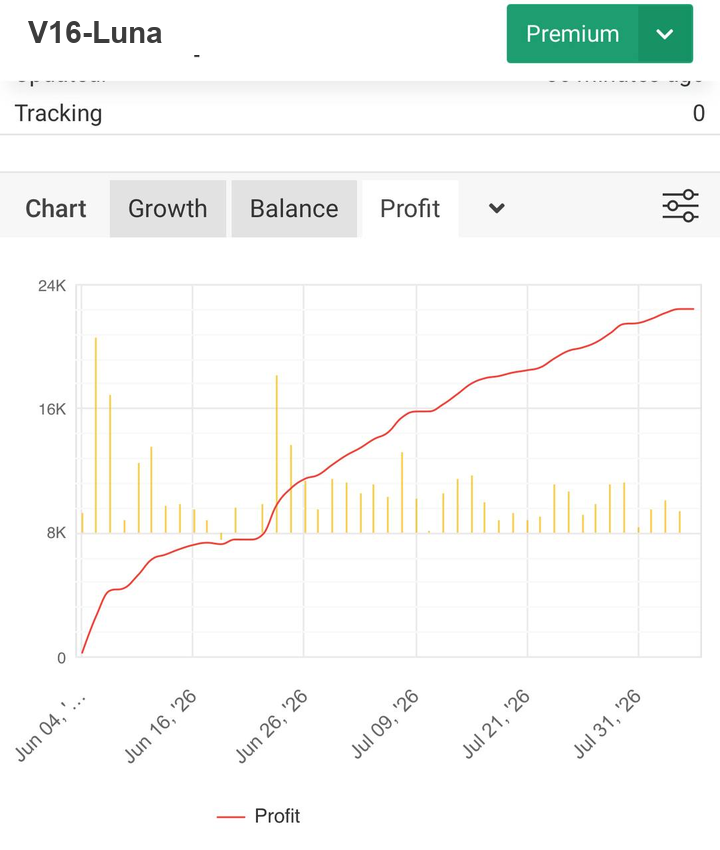
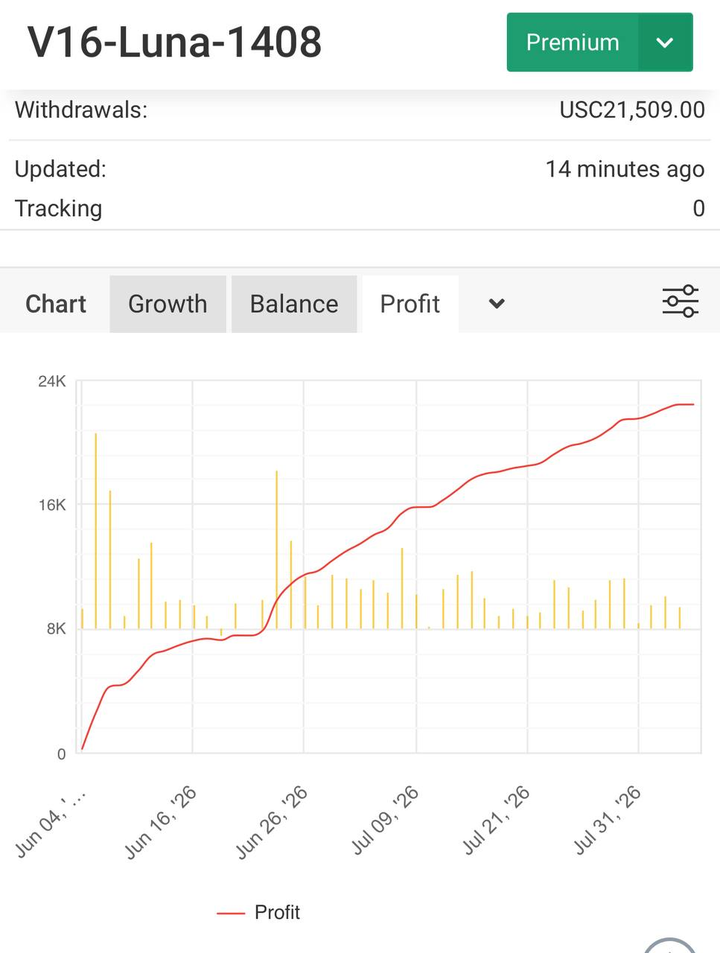
feat: new profit dashboard + winners/losers chart, normal-risk copy update
- replace profit chart with the new V16-Luna-1408 dashboard screenshot
  (Withdrawals USC21,509.00, Updated 14 min ago, Profit to 24K)
- add Winners vs Losers hourly chart with caption (peak 135 wins at 18:00)
- normal-risk mode: hide the chart grid (low-risk stats only), updated
  copy — higher start lot, reduced delay, Dynamic mode (not multiplier),
  standard grid; stats note now says normal mode grows with start lot
- footer: add "Develop by LostSky" credit

🤖 Generated with Codebuff

diff --git a/index.html b/index.html
@@ -179,25 +179,25 @@
     <p class="sec-lede" data-risk="low"><b>นี่คือผลกำไรจริงของ EA โดยตั้งค่าในระดับความเสี่ยงต่ำสุด</b> —
     เน้นอยู่รอดก่อนกำไร: ล็อตเล็ก ระยะห่างกว้าง เปิดน้อยไม้ ใช้โหมด Dynamic + ดีเลย์ 30 วิ และเปิดกรองข่าวเต็มรูปแบบ</p>
     <p class="sec-lede" data-risk="normal" hidden><b>นี่คือผลกำไรจริงของ EA โดยตั้งค่าในระดับความเสี่ยงปกติ</b> —
-    ล็อตเพิ่มทบเป็นขั้น (คูณ ×1.5) ระยะห่างมาตรฐาน เปิดไม้ถี่ขึ้น กำไรโตเร็วขึ้น แต่รับความเสี่ยงมากขึ้นตาม</p>
+    ล็อตเริ่มต้นที่มากขึ้น ลดดีเลย์ โหมด Dynamic ระยะห่างมาตรฐาน เปิดไม้ถี่ขึ้น กำไรโตเร็วขึ้น แต่รับความเสี่ยงมากขึ้น</p>
 
-    <div class="profit-grid">
+    <div class="profit-grid" data-risk="low">
       <figure class="profit-fig">
         <div class="profit-card">
           <div class="profit-head">
-            <span class="p-name">V16-Luna</span>
+            <span class="p-name">V16-Luna-1408</span>
             <span class="badge prem">Premium</span>
           </div>
           <div class="profit-body">
-            <span class="pf-label">Tracking</span><span class="pf-val">0</span>
+            <span class="pf-label">Withdrawals</span><span class="pf-val">USC21,509.00</span>
           </div>
           <picture>
             <source srcset="img/ea-profit-chart.webp" type="image/webp">
-            <img src="img/ea-profit-chart.png" alt="กราฟกำไร EA V16-Luna — Profit สูงขึ้นจาก 0 ถึงเกือบ 24K" width="720" height="850" loading="lazy" decoding="async">
+            <img src="img/ea-profit-chart.png" alt="แดชบอร์ด V16-Luna-1408 — Withdrawals USC21,509.00, Updated 14 นาทีที่แล้ว, กราฟ Profit สูงขึ้นถึง 24K" width="720" height="953" loading="lazy" decoding="async">
           </picture>
           <p class="profit-legend"><span class="lg-line"></span>Profit</p>
         </div>
-        <figcaption class="caption">กราฟกำไรสะสม (Profit / Growth / Balance) — เส้นแดงคือกำไรสะสม สีทองคือผลต่อวัน</figcaption>
+        <figcaption class="caption">แดชบอร์ด V16-Luna-1408 — ถอนออกแล้ว USC21,509.00 · อัปเดตล่าสุด 14 นาทีที่แล้ว · กราฟ Profit (เส้นแดง) สูงขึ้นถึง 24K</figcaption>
       </figure>
 
       <figure class="profit-fig">
@@ -211,6 +211,19 @@
           </picture>
         </div>
         <figcaption class="caption">คะแนนรวม (Radar) + สถิติ: กำไรสุทธิ +10,645 USC · Win Rate 68.4% · Max Drawdown 0.22% · อันดับ Top 72%</figcaption>
+      </figure>
+
+      <figure class="profit-fig profit-fig-wide">
+        <div class="profit-card">
+          <div class="profit-head">
+            <span class="p-name">Winners vs Losers</span>
+          </div>
+          <picture>
+            <source srcset="img/ea-winners-losers.webp" type="image/webp">
+            <img src="img/ea-winners-losers.png" alt="กราฟ Winners vs Losers รายชั่วโมง — แท่งเขียวคือจำนวนไม้ที่ชนะ แท่งม่วงคือจำนวนไม้ที่แพ้ ในแต่ละชั่วโมงเทรด" width="720" height="690" loading="lazy" decoding="async">
+          </picture>
+        </div>
+        <figcaption class="caption">Winners vs Losers รายชั่วโมง — แท่งเขียว (Winners) คือจำนวนไม้ที่ปิดกำไร แท่งม่วง (Losers) คือไม้ที่ปิดขาดทุน — ชั่วโมง 18.00 มีกำไรมากสุด 135 ไม้</figcaption>
       </figure>
     </div>
 
@@ -228,11 +241,11 @@
     <div class="profit-explain" data-risk="normal" hidden>
       <h3>ตั้งค่าความเสี่ยงปกติ หมายถึงอะไร?</h3>
       <ul>
-        <li><b>ล็อตเพิ่มทบ</b> — โหมดคูณ ×1.5 ทุกไม้ถัดไป (มีเพดาน Max Lot คุมไม่ให้บาน)</li>
+        <li><b>ล็อตเริ่มต้นที่มากขึ้น</b> — เริ่มไม้แรกด้วยล็อตที่ใหญ่ขึ้น กำไรต่อรอบโตตาม</li>
+        <li><b>ลดดีเลย์</b> — ไม้ถัดไปออกเร็วขึ้น (ดีเลย์สั้นกว่าโหมดต่ำสุด)</li>
+        <li><b>โหมด Dynamic</b> — ล็อตเพิ่มเป็นขั้นบันไดตามระยะ ไม่ใช้โหมดคูณ (×1.5 อยู่ในขั้นเสี่ยงสูงสุด ควรตั้งแค่ Dynamic พอ)</li>
         <li><b>ระยะห่างมาตรฐาน</b> — เปิดไม้ถี่ขึ้น ทำรอบได้เร็วขึ้น แต่ลากไกลขึ้นระหว่างทาง</li>
-        <li><b>กรองข่าวเลือกได้</b> — High เท่านั้น หรือ High + Medium ตามใจ อยากปิดก็ได้</li>
-        <li><b>กำไรโตเร็วขึ้น</b> — แลกกับ Max Drawdown ที่สูงกว่าโหมดต่ำสุด</li>
-        <li>ตัวเลขสถิติด้านบน (+10,645 USC / Win Rate 68.4% / Max DD 0.22%) เป็นผลจาก<b>การตั้งค่าความเสี่ยงต่ำสุด</b> — โหมดปกติน้ำหนักต่างกันไปตามค่าที่ตั้ง</li>
+        <li>ตัวเลขสถิติที่โชว์เป็น<b>โหมดเสี่ยงต่ำ</b> เป็นผลจากการตั้งค่าความเสี่ยงต่ำสุด — โหมดปกติจะกำไรเพิ่มขึ้นตาม lot เริ่มต้นอย่างมาก</li>
       </ul>
     </div>
 
@@ -415,6 +428,7 @@
   <div class="foot-line"></div>
   <p class="foot-brand">LateEA <span class="foot-sub">· เวอร์ชัน V16-Luna-1408</span></p>
   <p class="foot-note">เขียนด้วยภาษา MQL5 สำหรับ MetaTrader 5 · หน้าสาธิตเวอร์ชันรีวิว · 2026 · <a href="v0508deep.html">ดูเวอร์ชันเก่า v0508Deep</a></p>
+  <p class="foot-dev">Develop by <span class="foot-dev-name">LostSky</span></p>
 </footer>
 
 <script src="https://cdnjs.cloudflare.com/ajax/libs/three.js/r128/three.min.js" integrity="sha384-CI3ELBVUz9XQO+97x6nwMDPosPR5XvsxW2ua7N1Xeygeh1IxtgqtCkGfQY9WWdHu" crossorigin="anonymous" defer></script>

diff --git a/js/main.js b/js/main.js
@@ -174,6 +174,7 @@
     var btns = wrap.querySelectorAll('.risk-btn');
     var ledes = document.querySelectorAll('.sec-lede[data-risk]');
     var explains = document.querySelectorAll('.profit-explain[data-risk]');
+    var grids = document.querySelectorAll('.profit-grid[data-risk]');
 
     var saved = null;
     try { saved = localStorage.getItem('lateea-risk'); } catch (e) {}
@@ -183,6 +184,7 @@
       btns.forEach(function (b) { b.classList.toggle('is-active', b.getAttribute('data-risk') === which); });
       ledes.forEach(function (el) { el.hidden = el.getAttribute('data-risk') !== which; });
       explains.forEach(function (el) { el.hidden = el.getAttribute('data-risk') !== which; });
+      grids.forEach(function (el) { el.hidden = el.getAttribute('data-risk') !== which; });
       try { localStorage.setItem('lateea-risk', which); } catch (e) {}
     }
 

diff --git a/css/style.css b/css/style.css
@@ -891,3 +891,18 @@ body.theme-night .btn-wikifx {
   background: linear-gradient(180deg, var(--gold-br), var(--gold));
   box-shadow: 0 2px 10px rgba(138,109,47,.35);
 }
+
+/* ---------- profit grid v3 (3 cards) + footer dev credit ---------- */
+.profit-fig-wide { grid-column: 1 / -1; }
+.profit-fig-wide .profit-card { max-width: 640px; margin: 0 auto; }
+.foot-dev {
+  margin-top: 14px;
+  font-family: var(--sans);
+  font-size: 14px;
+  letter-spacing: .12em;
+  color: var(--faint);
+}
+.foot-dev-name {
+  color: var(--gold-br);
+  font-weight: 600;
+}
